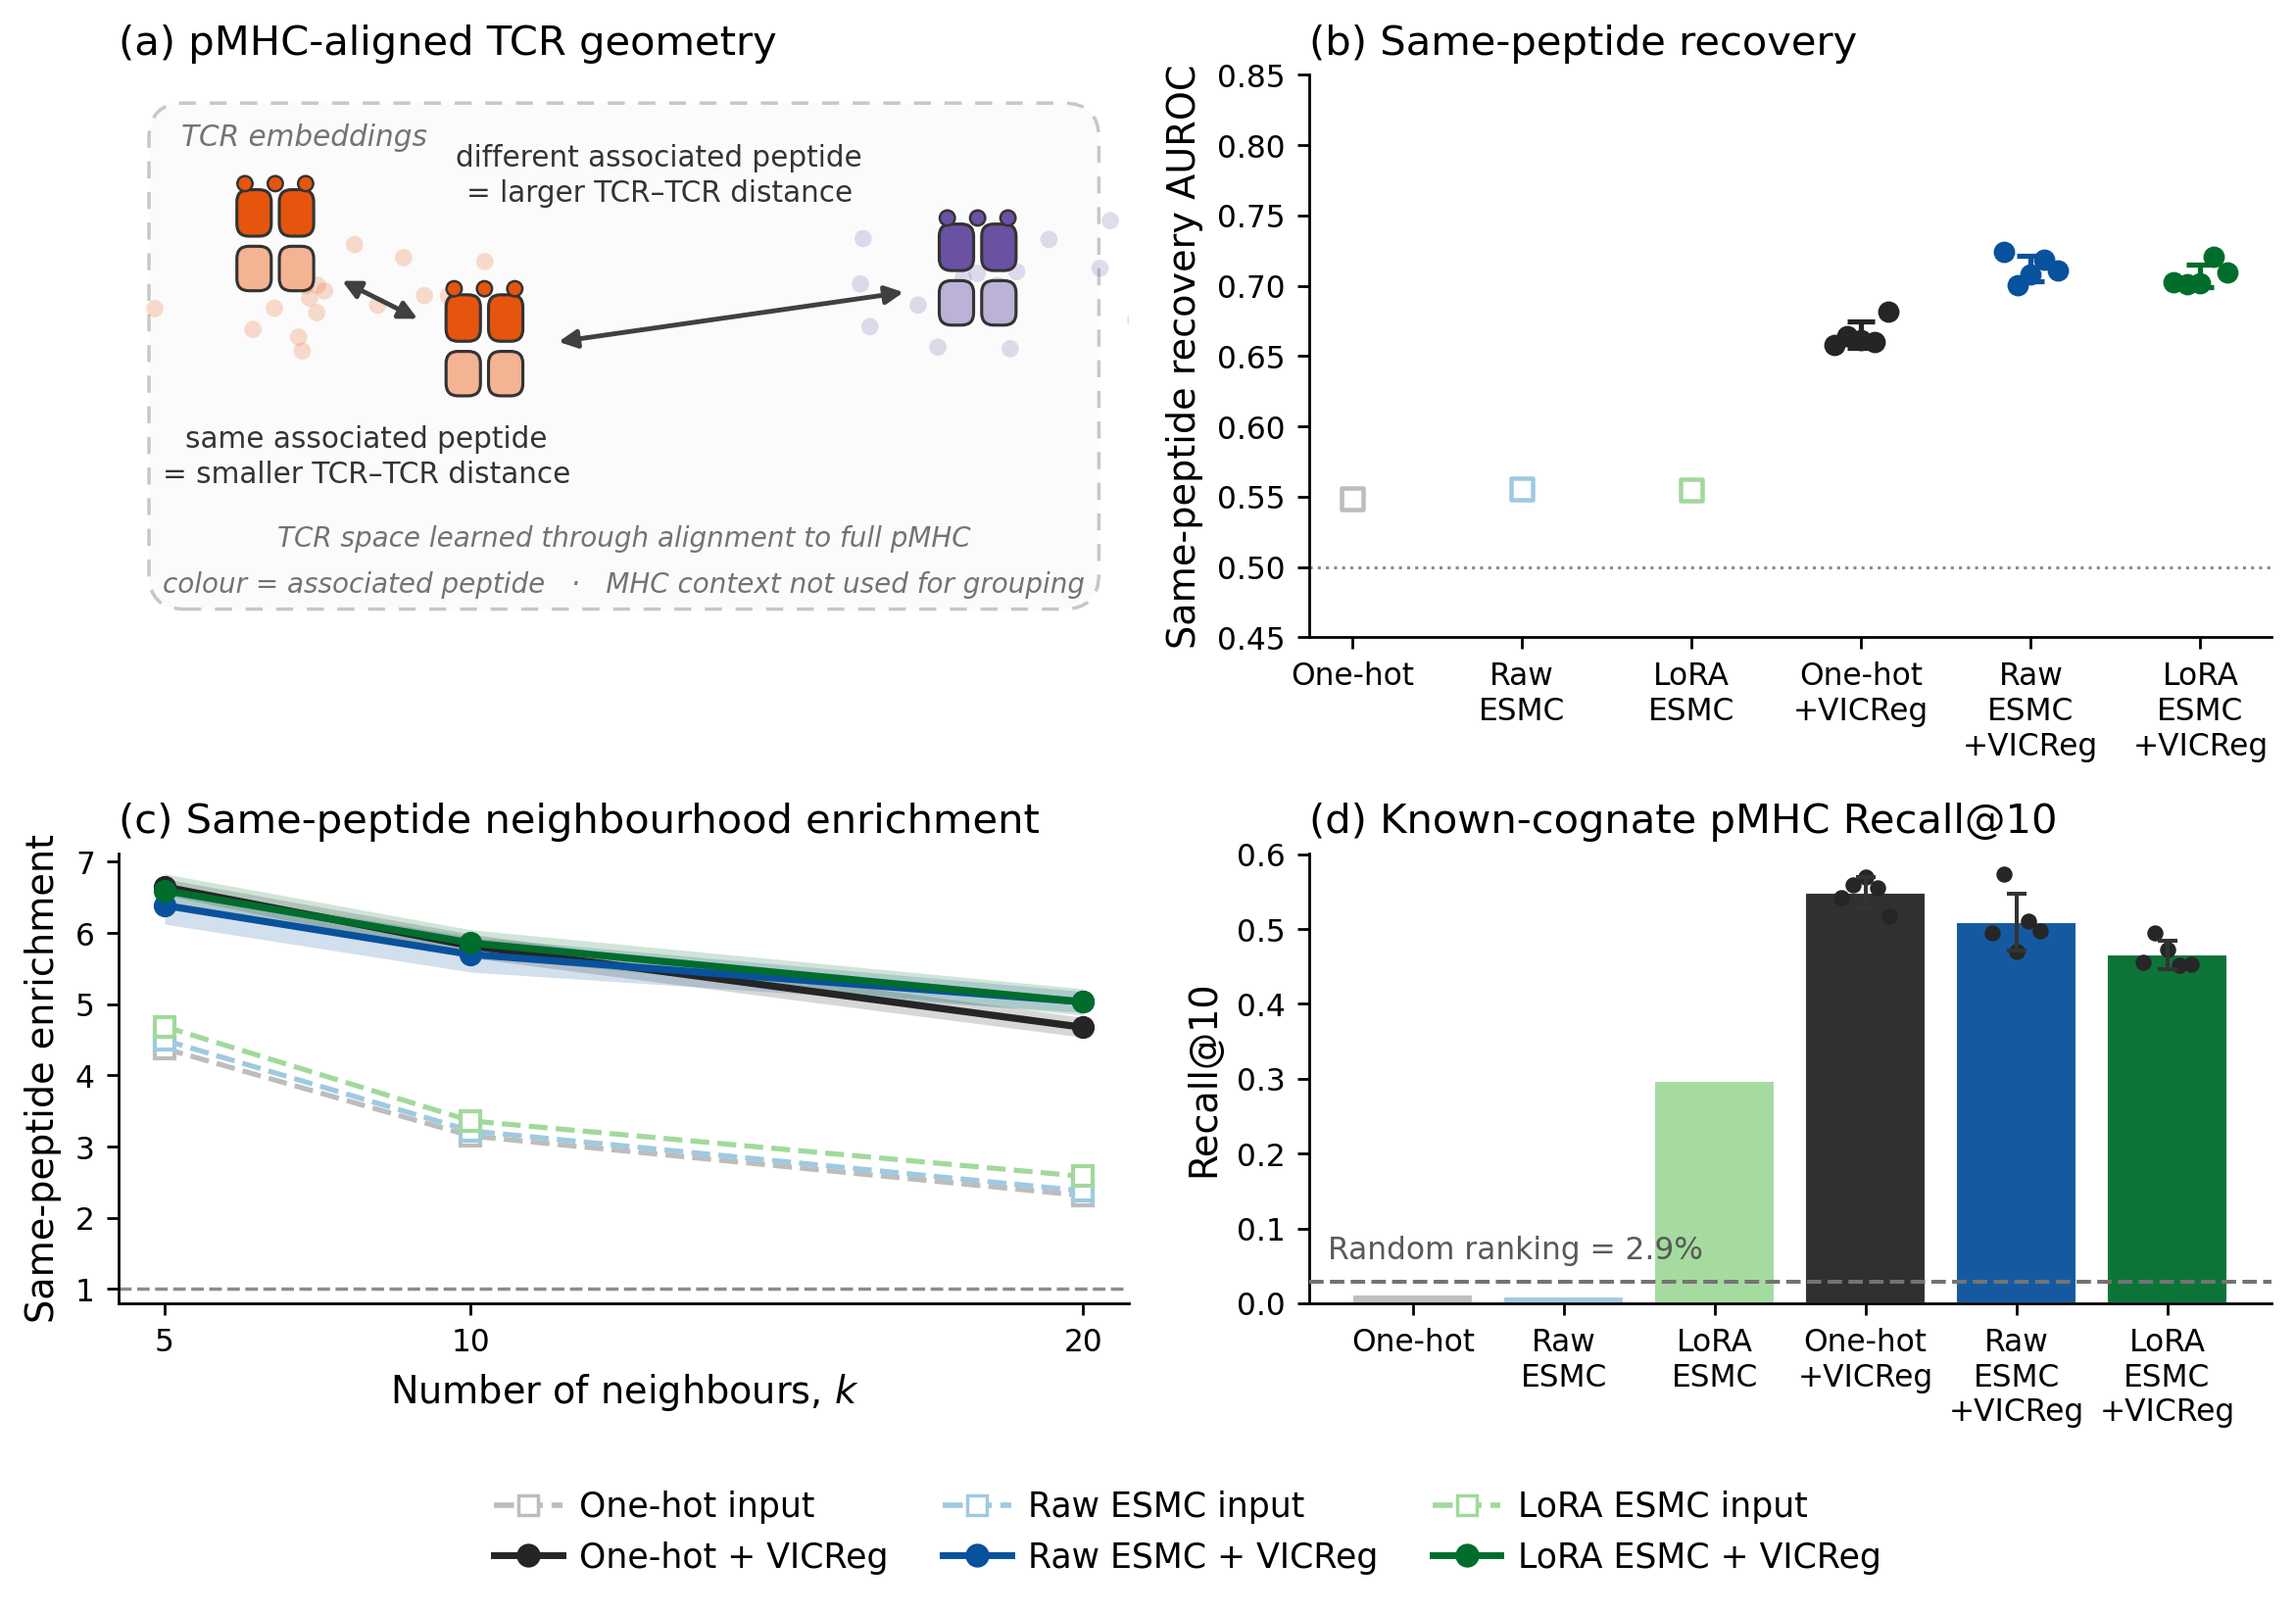
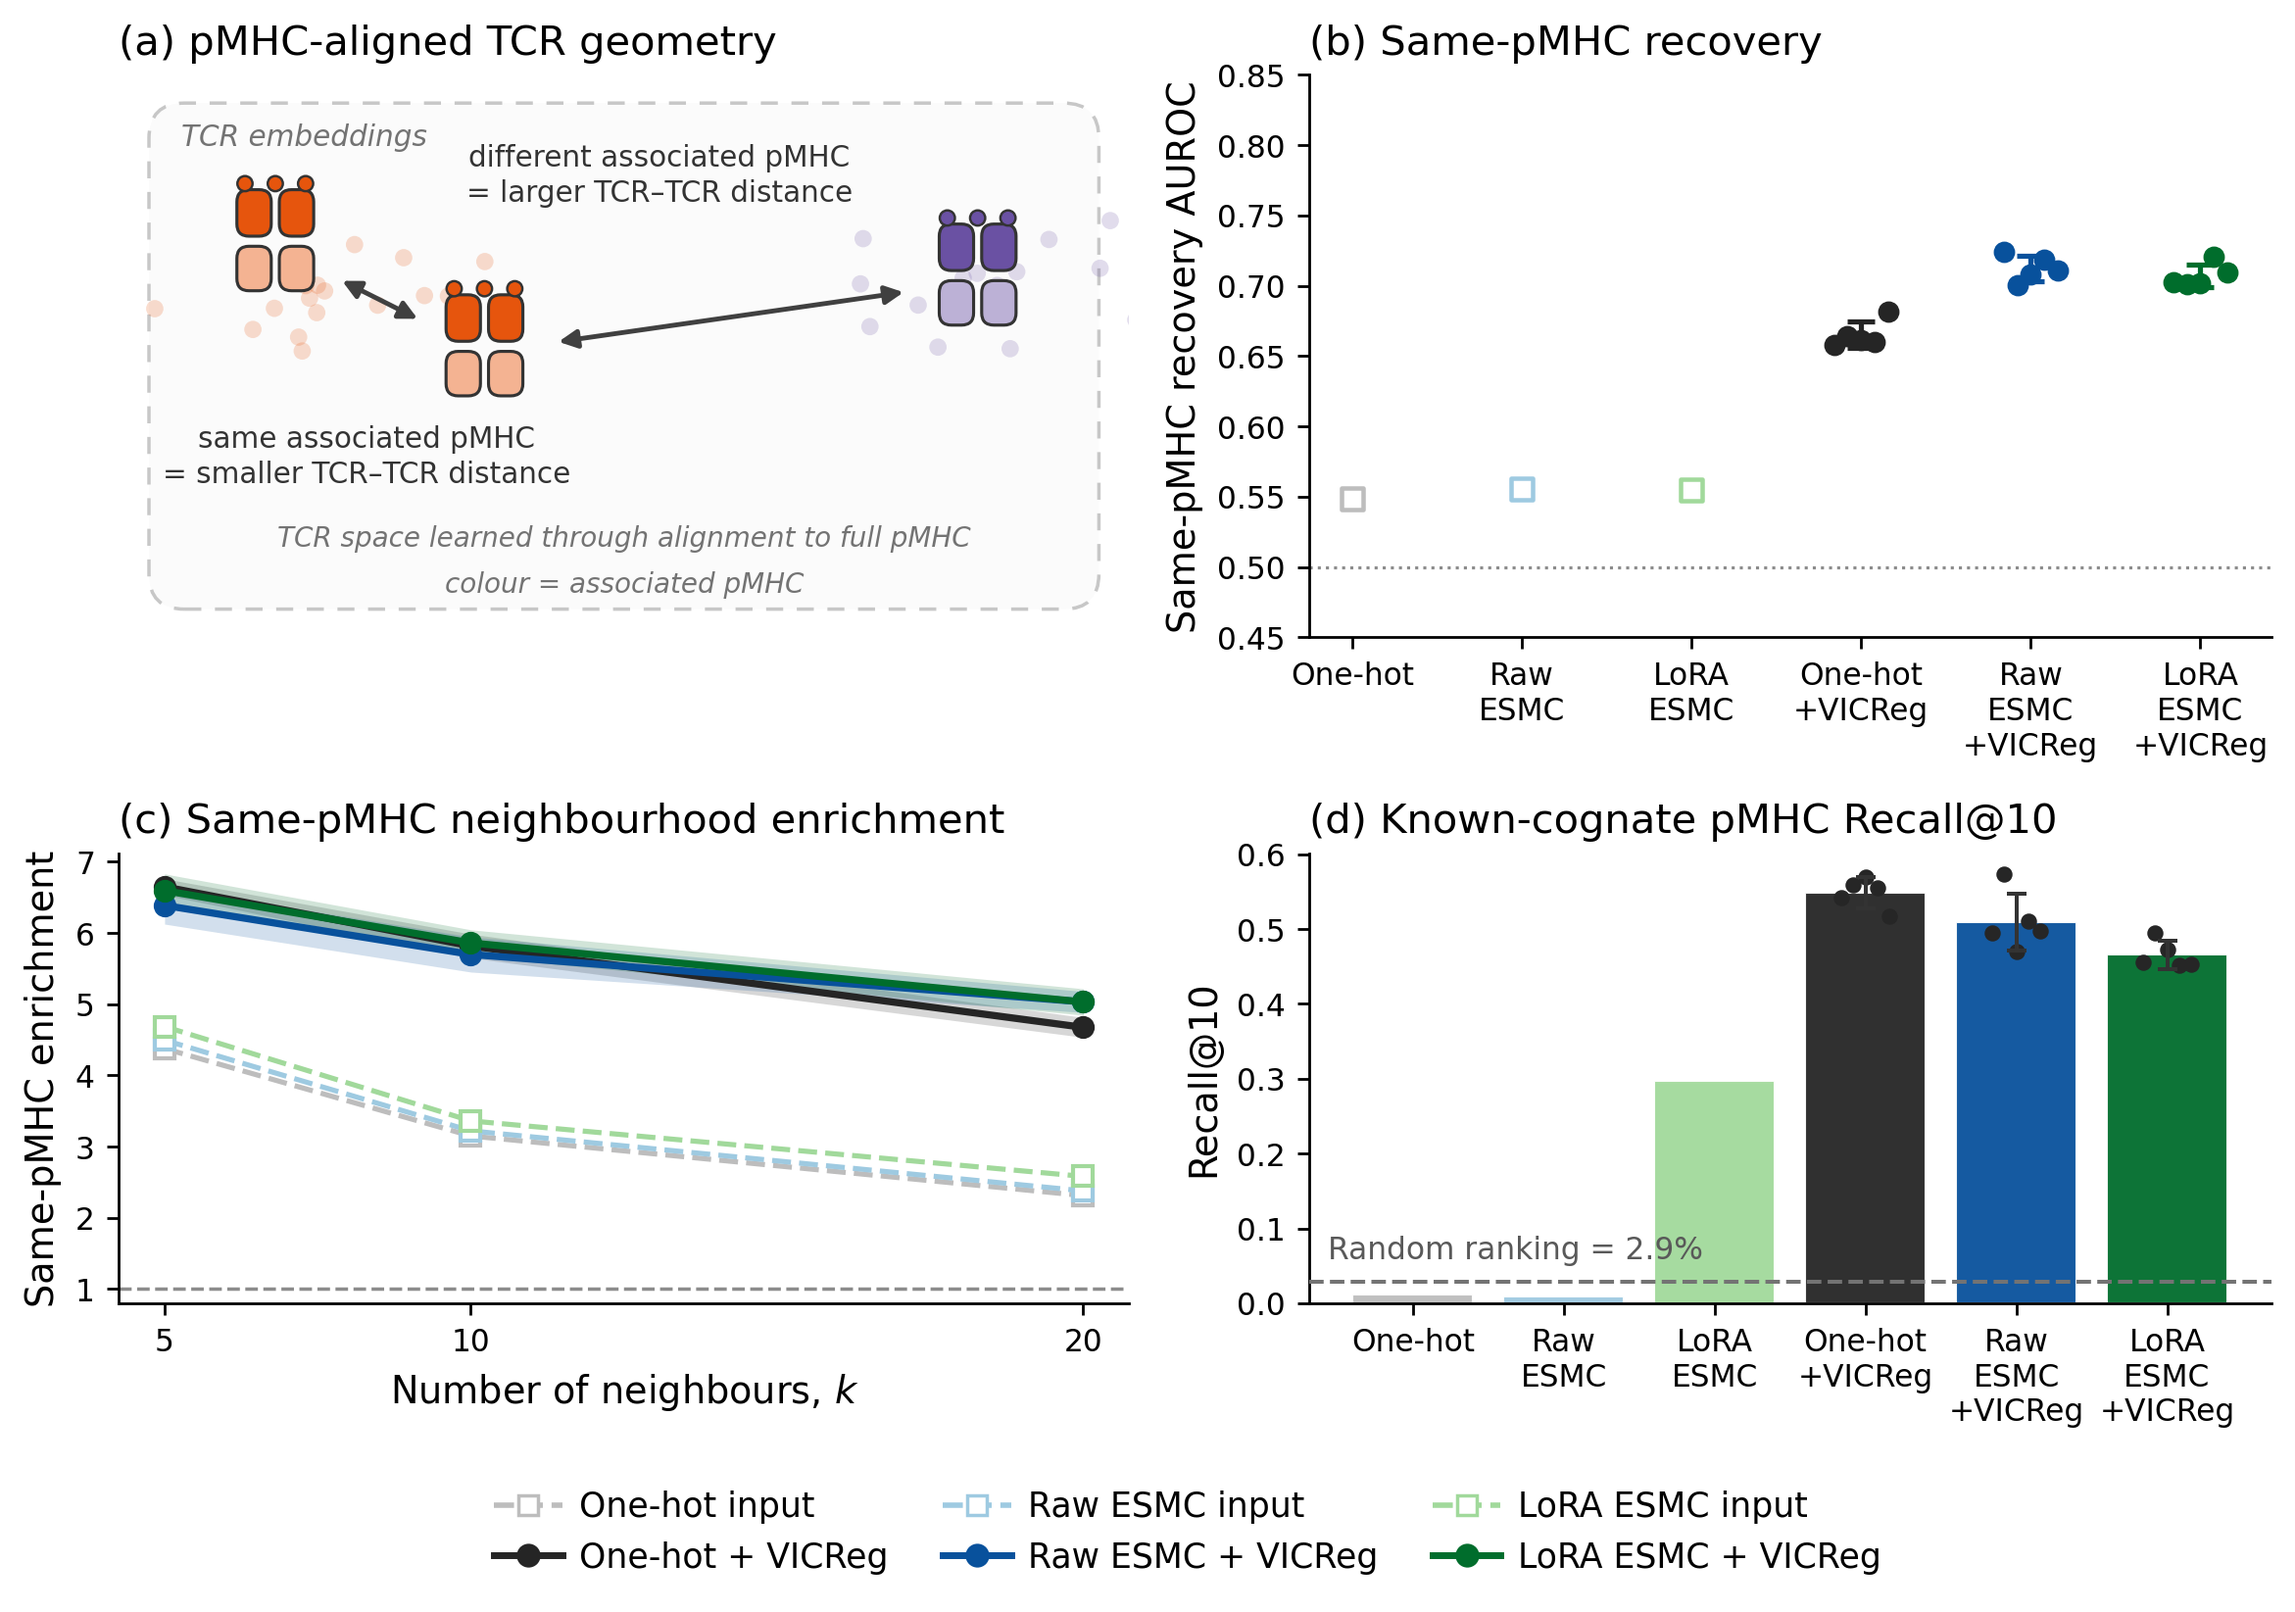
Refine Figure 2 presentation

diff --git a/figures/make_figure2.py b/figures/make_figure2.py
@@ -2,11 +2,12 @@
 """Assemble Figure 2 from saved CSVs (no retraining).
 
   (a) schematic of pMHC-aligned TCR geometry (drawn, not data)
-  (b) same-peptide recovery AUROC
-  (c) same-peptide neighbourhood enrichment, k in {5, 10, 20}
+  (b) same-pMHC recovery AUROC
+  (c) same-pMHC neighbourhood enrichment, k in {5, 10, 20}
   (d) known-cognate pMHC Recall@10
 
-(b) and (c) group TCRs by peptide sequence irrespective of MHC.
+(b) and (c) group TCRs by peptide sequence; in this split no peptide appears
+with a differing MHC, so peptide grouping and pMHC grouping coincide.
 (d) ranks explicit peptide-MHC complexes. VICReg points are mean ± SD over
 seeds 31/37/43/49/55; input baselines are a single marker.
 
@@ -72,7 +73,7 @@ LEARNED = {"onehot_vicreg", "raw_esmc_vicreg", "finetuned_esmc_vicreg"}
 SEEDS = (31, 37, 43, 49, 55)
 
 # Schematic-only palette. Deliberately disjoint from the model colours above so
-# that "colour = associated peptide" in panel (a) is not read as a model identity.
+# that "colour = associated pMHC" in panel (a) is not read as a model identity.
 PEPTIDE_A = "#e6550d"
 PEPTIDE_B = "#6a51a3"
 
@@ -102,7 +103,7 @@ def tint(color: str, amount: float) -> tuple[float, float, float]:
 def draw_tcr(ax: plt.Axes, x: float, y: float, color: str, s: float = 1.0) -> None:
     """Draw a minimal alpha/beta TCR cartoon centred on (x, y).
 
-    Upper (variable) domains carry the associated-peptide colour, lower
+    Upper (variable) domains carry the associated-pMHC colour, lower
     (constant) domains a lighter tint, and three dots stand in for the CDR loops.
     """
     edge = "0.2"
@@ -240,7 +241,7 @@ def panel_schematic(ax: plt.Axes) -> None:
     ax.text(
         2.45,
         y_mid - 1.24,
-        "same associated peptide\n= smaller TCR\u2013TCR distance",
+        "same associated pMHC\n= smaller TCR\u2013TCR distance",
         fontsize=8.5,
         color="0.2",
         ha="center",
@@ -253,7 +254,7 @@ def panel_schematic(ax: plt.Axes) -> None:
     ax.text(
         5.35,
         y_mid + 0.92,
-        "different associated peptide\n= larger TCR\u2013TCR distance",
+        "different associated pMHC\n= larger TCR\u2013TCR distance",
         fontsize=8.5,
         color="0.2",
         ha="center",
@@ -276,7 +277,7 @@ def panel_schematic(ax: plt.Axes) -> None:
     ax.text(
         5.0,
         0.52,
-        "colour = associated peptide   \u00b7   MHC context not used for grouping",
+        "colour = associated pMHC",
         fontsize=8,
         style="italic",
         color="0.45",
@@ -335,10 +336,10 @@ def panel_auroc(ax: plt.Axes, split: str) -> None:
     ax.set_xticklabels(
         [TICK_LABELS[m] for m in models], rotation=0, ha="center", fontsize=9
     )
-    ax.set_ylabel("Same-peptide recovery AUROC", fontsize=11)
+    ax.set_ylabel("Same-pMHC recovery AUROC", fontsize=11)
     ax.tick_params(axis="y", labelsize=9)
     ax.set_ylim(0.45, 0.85)
-    ax.set_title("(b) Same-peptide recovery", fontsize=12, loc="left")
+    ax.set_title("(b) Same-pMHC recovery", fontsize=12, loc="left")
     style_spines(ax)
 
 
@@ -387,10 +388,10 @@ def panel_knn(ax: plt.Axes, split: str) -> None:
     ax.axhline(1.0, color="0.55", linestyle="--", linewidth=1.0, zorder=1)
     ax.set_xticks(ks)
     ax.set_xlabel(r"Number of neighbours, $k$", fontsize=11)
-    ax.set_ylabel("Same-peptide enrichment", fontsize=11)
+    ax.set_ylabel("Same-pMHC enrichment", fontsize=11)
     ax.tick_params(axis="both", labelsize=9)
     ax.set_ylim(0.8, None)
-    ax.set_title("(c) Same-peptide neighbourhood enrichment", fontsize=12, loc="left")
+    ax.set_title("(c) Same-pMHC neighbourhood enrichment", fontsize=12, loc="left")
     style_spines(ax)
 
 

diff --git a/REPRODUCIBILITY.md b/REPRODUCIBILITY.md
@@ -91,8 +91,10 @@ Outputs: `results/stagewise_transfer.csv` and `figures/stagewise_diagnostic.png`
 
 ## Figure 2 — geometry multipanel
 
-Panels (b) and (c) group TCRs by peptide sequence irrespective of MHC. Panel (d)
-ranks explicit peptide–MHC complexes.
+Panels (b) and (c) group TCRs by peptide sequence; in this evaluation split no
+peptide appears with a differing MHC, so peptide grouping and pMHC grouping
+coincide and the figure labels them as pMHC. Panel (d) ranks explicit
+peptide–MHC complexes.
 
 ```bash
 # 2b/2c/2d require latent exports from the paper runs; no GPU once generated
